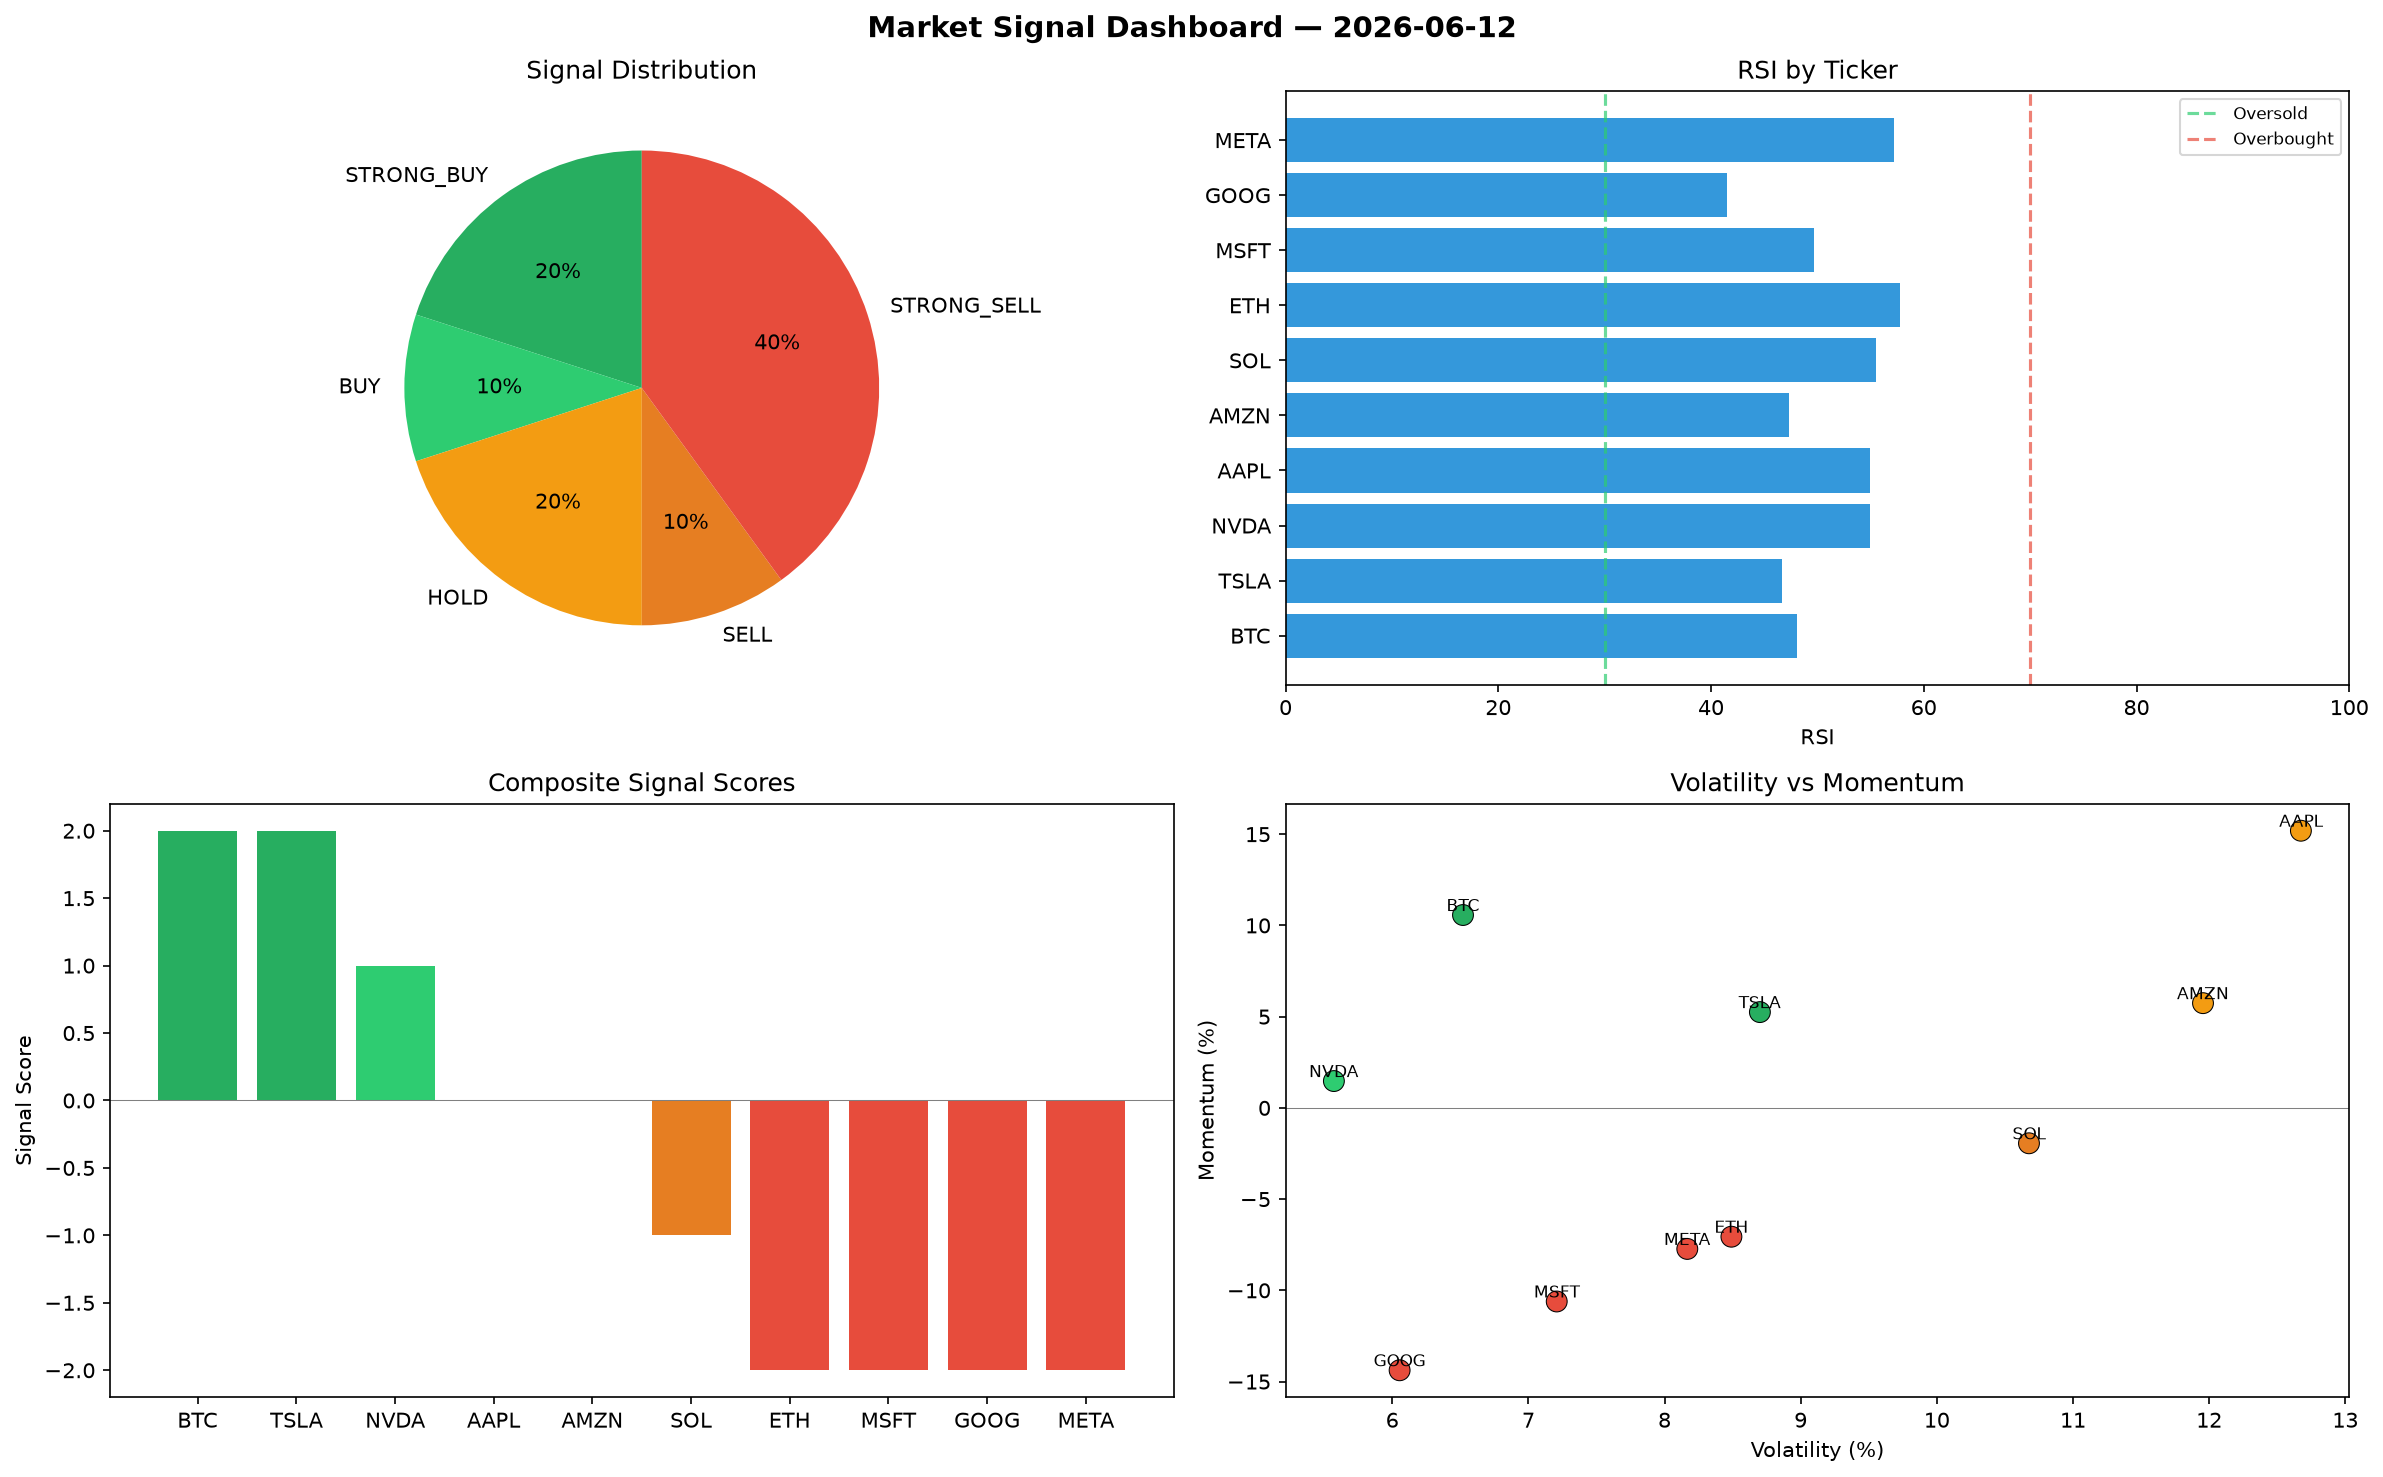
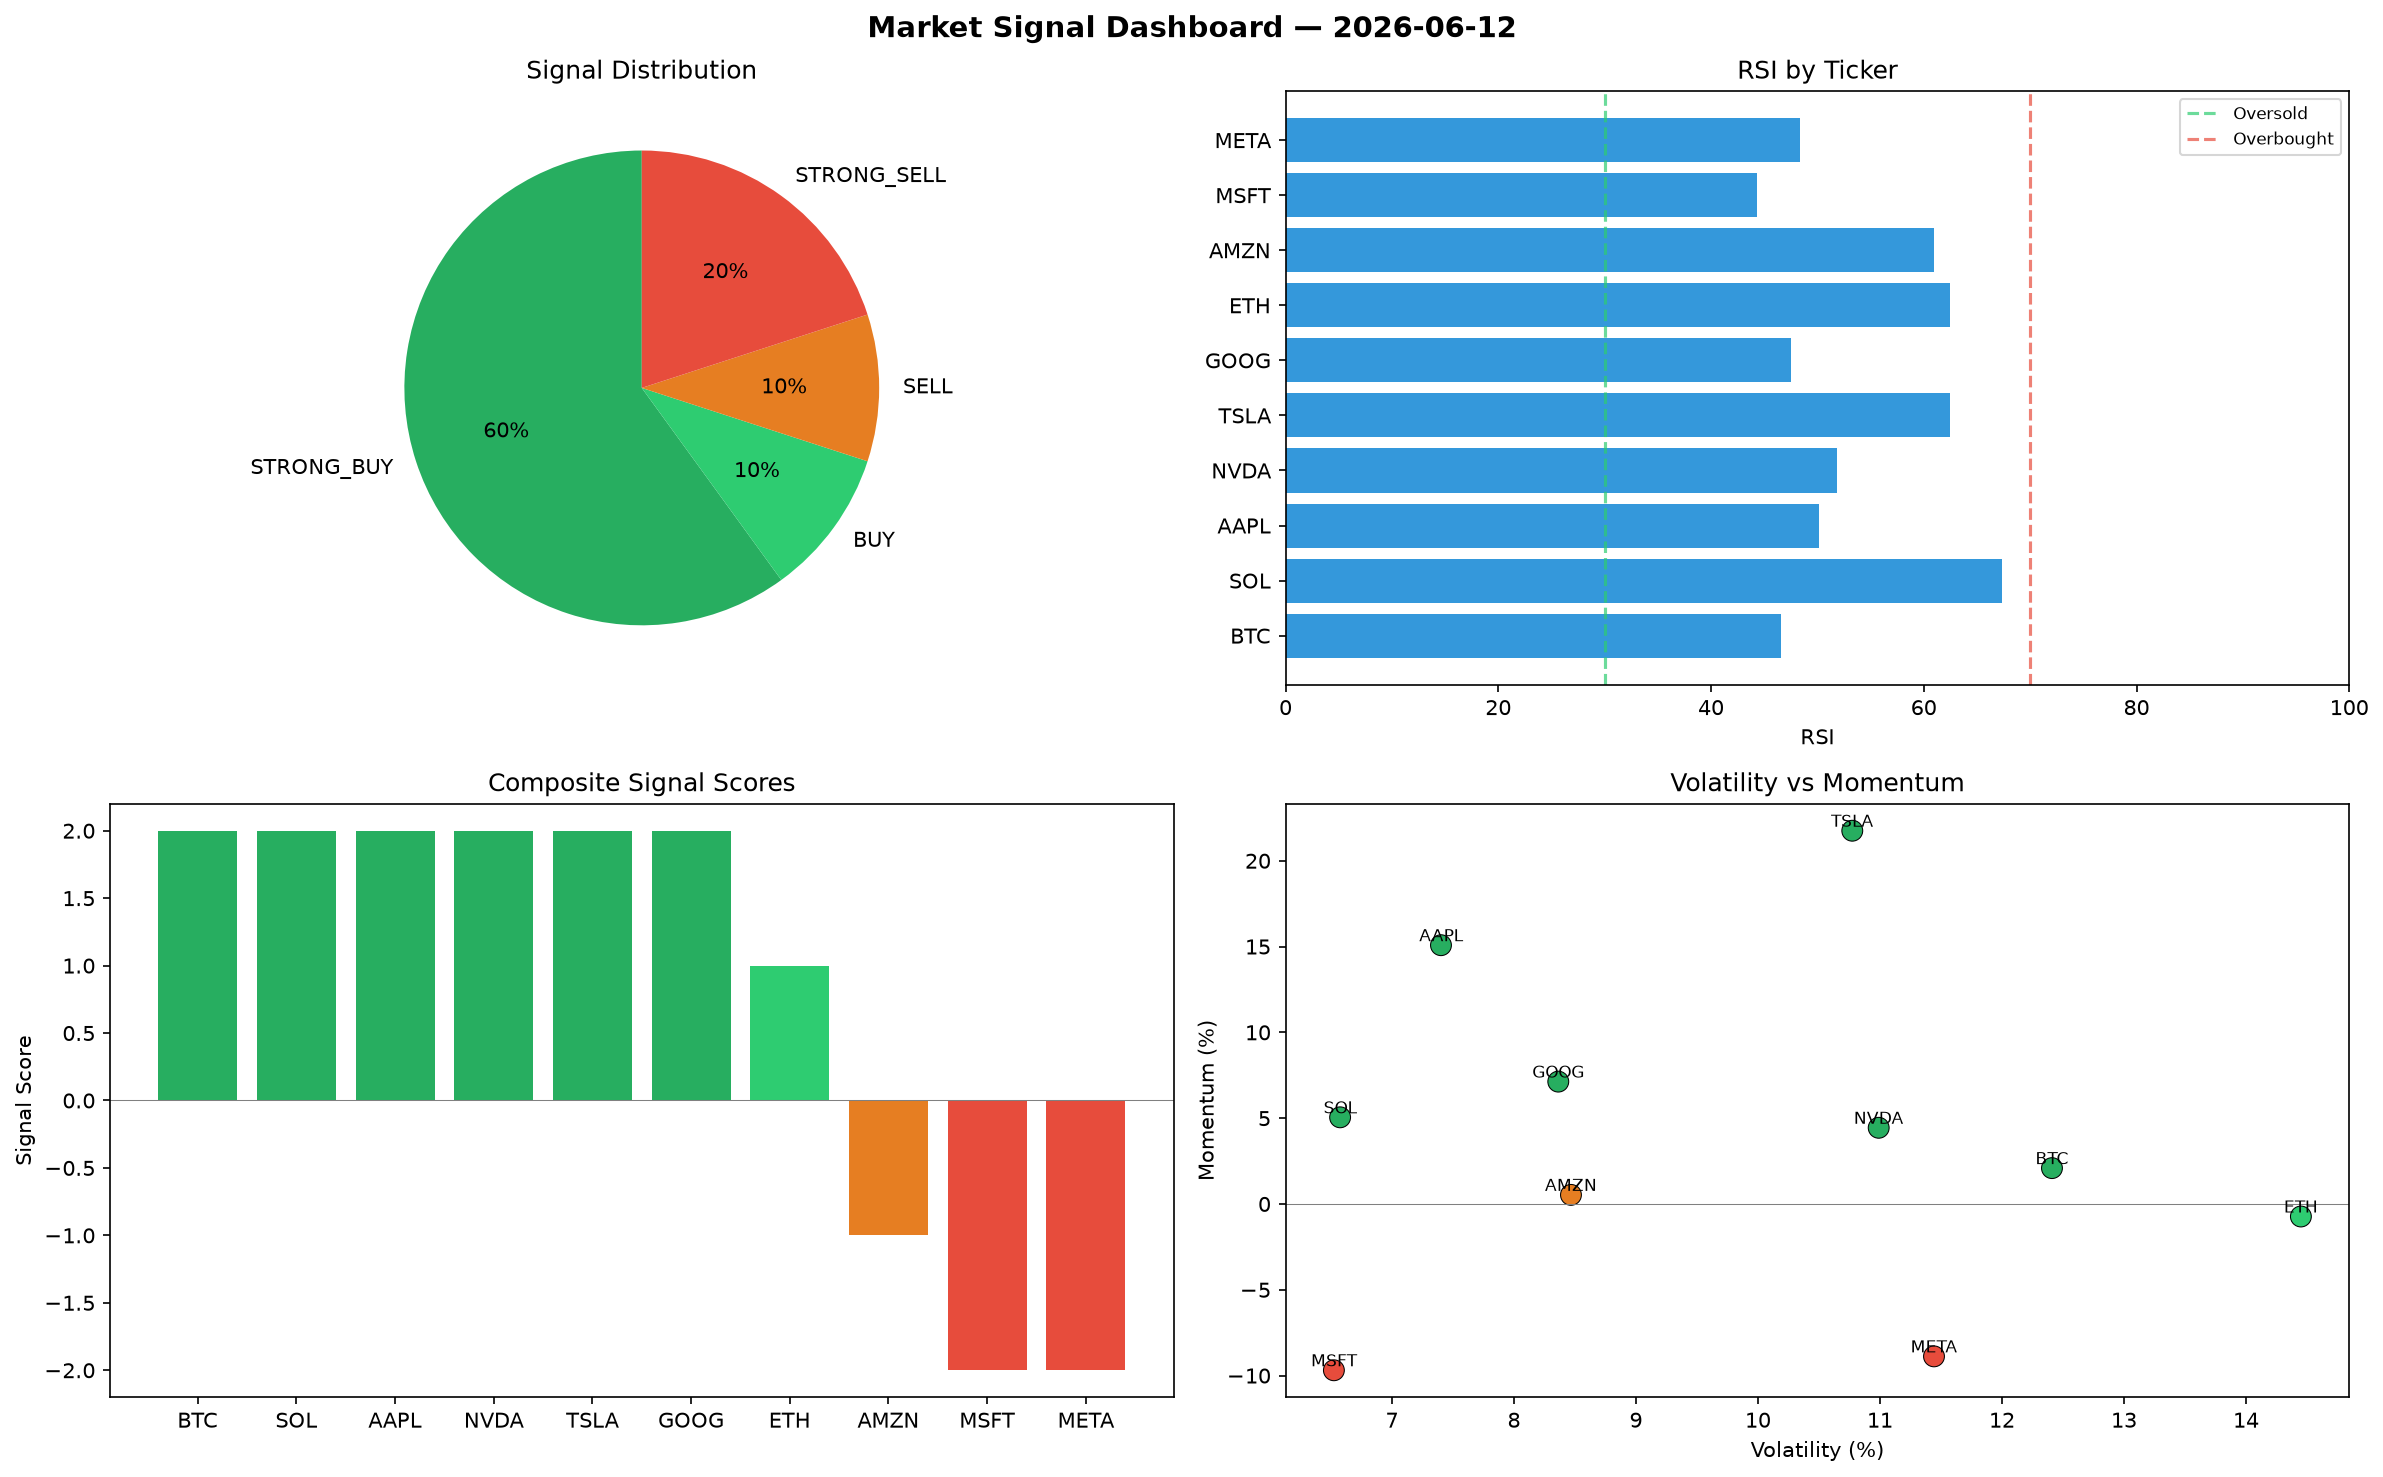
automated-bots: market signals 2026-06-12T22:03

diff --git a/logs/2026-06-12.md b/logs/2026-06-12.md
@@ -1,6 +1,6 @@
 # Market Signal Report — 2026-06-12
 
-**Run ID:** `3ca8e56dcf` | **Buy:** 3 | **Sell:** 5 | **Hold:** 2
+**Run ID:** `e7dc5471b1` | **Buy:** 7 | **Sell:** 3 | **Hold:** 0
 
 ![Dashboard](2026-06-12_dashboard.png)
 
@@ -8,28 +8,28 @@
 
 | Ticker | Price | Signal | Score | RSI | Momentum | Confidence |
 |--------|-------|--------|-------|-----|----------|------------|
-| BTC | $1654.4 | **STRONG_BUY** | 2 | 48.11 | 0.1057 | 0.5 |
-| TSLA | $443.48 | **STRONG_BUY** | 2 | 46.69 | 0.0525 | 0.5 |
-| NVDA | $4542.04 | **BUY** | 1 | 54.94 | 0.0147 | 0.25 |
-| AAPL | $4511.62 | **HOLD** | 0 | 54.94 | 0.1519 | 0.0 |
-| AMZN | $3247.14 | **HOLD** | 0 | 47.34 | 0.0574 | 0.0 |
-| SOL | $390.68 | **SELL** | -1 | 55.48 | -0.0194 | 0.25 |
-| ETH | $1735.22 | **STRONG_SELL** | -2 | 57.74 | -0.0706 | 0.5 |
-| MSFT | $876.59 | **STRONG_SELL** | -2 | 49.71 | -0.1061 | 0.5 |
-| GOOG | $619.86 | **STRONG_SELL** | -2 | 41.51 | -0.1438 | 0.5 |
-| META | $2168.64 | **STRONG_SELL** | -2 | 57.24 | -0.0773 | 0.5 |
+| BTC | $2800.11 | **STRONG_BUY** | 2 | 46.62 | 0.0209 | 0.5 |
+| SOL | $1067.73 | **STRONG_BUY** | 2 | 67.33 | 0.0505 | 0.5 |
+| AAPL | $2849.4 | **STRONG_BUY** | 2 | 50.18 | 0.1508 | 0.5 |
+| NVDA | $3441.29 | **STRONG_BUY** | 2 | 51.85 | 0.0444 | 0.5 |
+| TSLA | $3232.56 | **STRONG_BUY** | 2 | 62.43 | 0.2175 | 0.5 |
+| GOOG | $2797.65 | **STRONG_BUY** | 2 | 47.52 | 0.0713 | 0.5 |
+| ETH | $2892.11 | **BUY** | 1 | 62.49 | -0.0073 | 0.25 |
+| AMZN | $510.16 | **SELL** | -1 | 60.98 | 0.0053 | 0.25 |
+| MSFT | $1893.81 | **STRONG_SELL** | -2 | 44.36 | -0.0969 | 0.5 |
+| META | $2113.73 | **STRONG_SELL** | -2 | 48.34 | -0.0888 | 0.5 |
 
 ## Delta vs Yesterday
 
 | Ticker | Today | Yesterday | Price Change | Signal Changed |
 |--------|-------|-----------|-------------|----------------|
-| BTC | STRONG_BUY | STRONG_SELL | 📈 11.75% | ⚠ YES |
-| TSLA | STRONG_BUY | STRONG_BUY | 📉 -90.7% | — |
-| NVDA | BUY | HOLD | 📈 304.51% | ⚠ YES |
-| AAPL | HOLD | SELL | 📈 75.75% | ⚠ YES |
-| AMZN | HOLD | STRONG_SELL | 📈 634.53% | ⚠ YES |
-| SOL | SELL | STRONG_SELL | 📉 -90.28% | ⚠ YES |
-| ETH | STRONG_SELL | HOLD | 📉 -19.62% | ⚠ YES |
-| MSFT | STRONG_SELL | STRONG_BUY | 📉 -50.13% | ⚠ YES |
-| GOOG | STRONG_SELL | HOLD | 📉 -85.22% | ⚠ YES |
-| META | STRONG_SELL | BUY | 📉 -48.75% | ⚠ YES |
+| BTC | STRONG_BUY | STRONG_SELL | 📈 89.14% | ⚠ YES |
+| SOL | STRONG_BUY | STRONG_SELL | 📉 -73.43% | ⚠ YES |
+| AAPL | STRONG_BUY | SELL | 📈 11.0% | ⚠ YES |
+| NVDA | STRONG_BUY | HOLD | 📈 206.48% | ⚠ YES |
+| TSLA | STRONG_BUY | STRONG_BUY | 📉 -32.23% | — |
+| GOOG | STRONG_BUY | HOLD | 📉 -33.29% | ⚠ YES |
+| ETH | BUY | HOLD | 📈 33.96% | ⚠ YES |
+| AMZN | SELL | STRONG_SELL | 📈 15.4% | ⚠ YES |
+| MSFT | STRONG_SELL | STRONG_BUY | 📈 7.75% | ⚠ YES |
+| META | STRONG_SELL | BUY | 📉 -50.04% | ⚠ YES |
